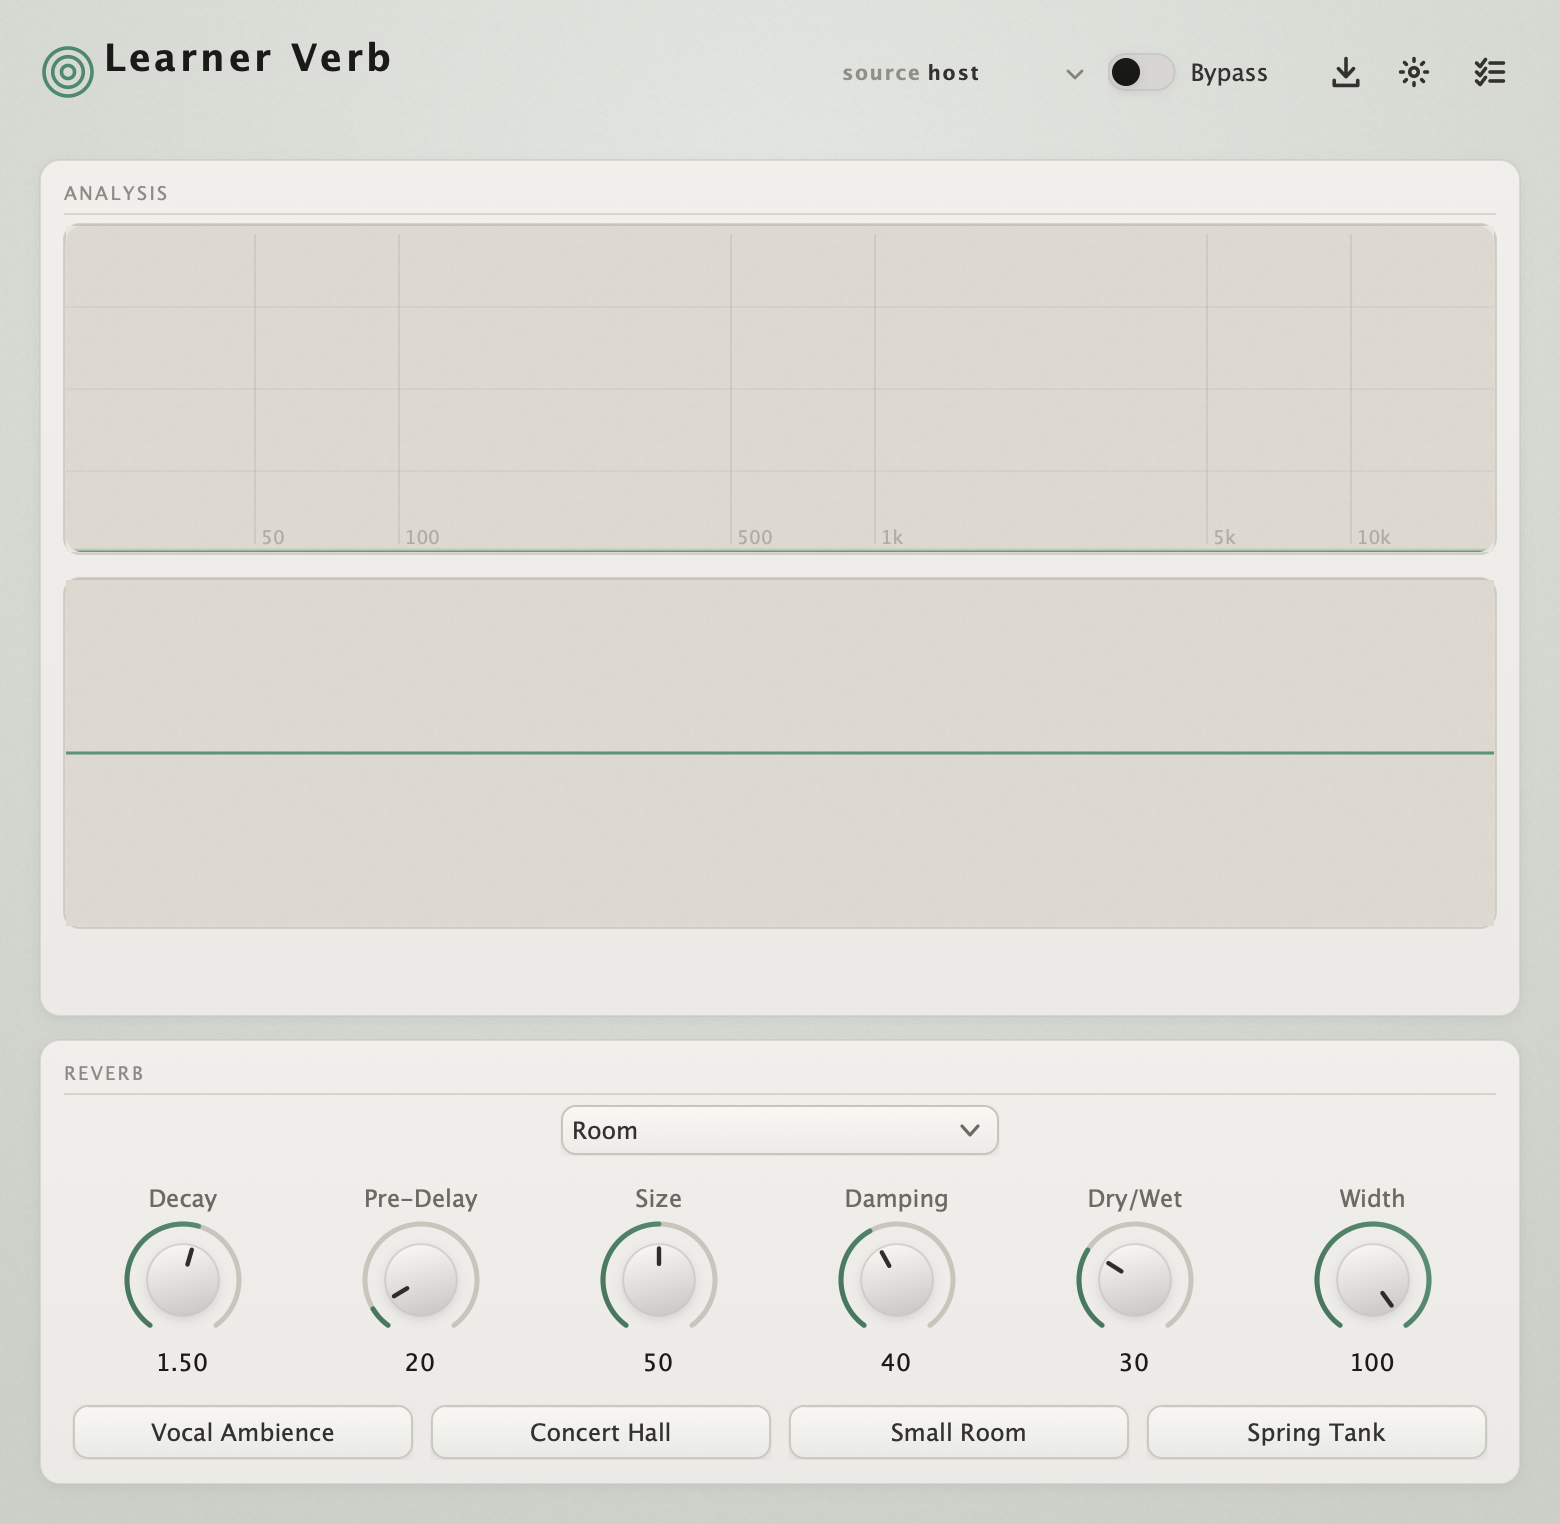
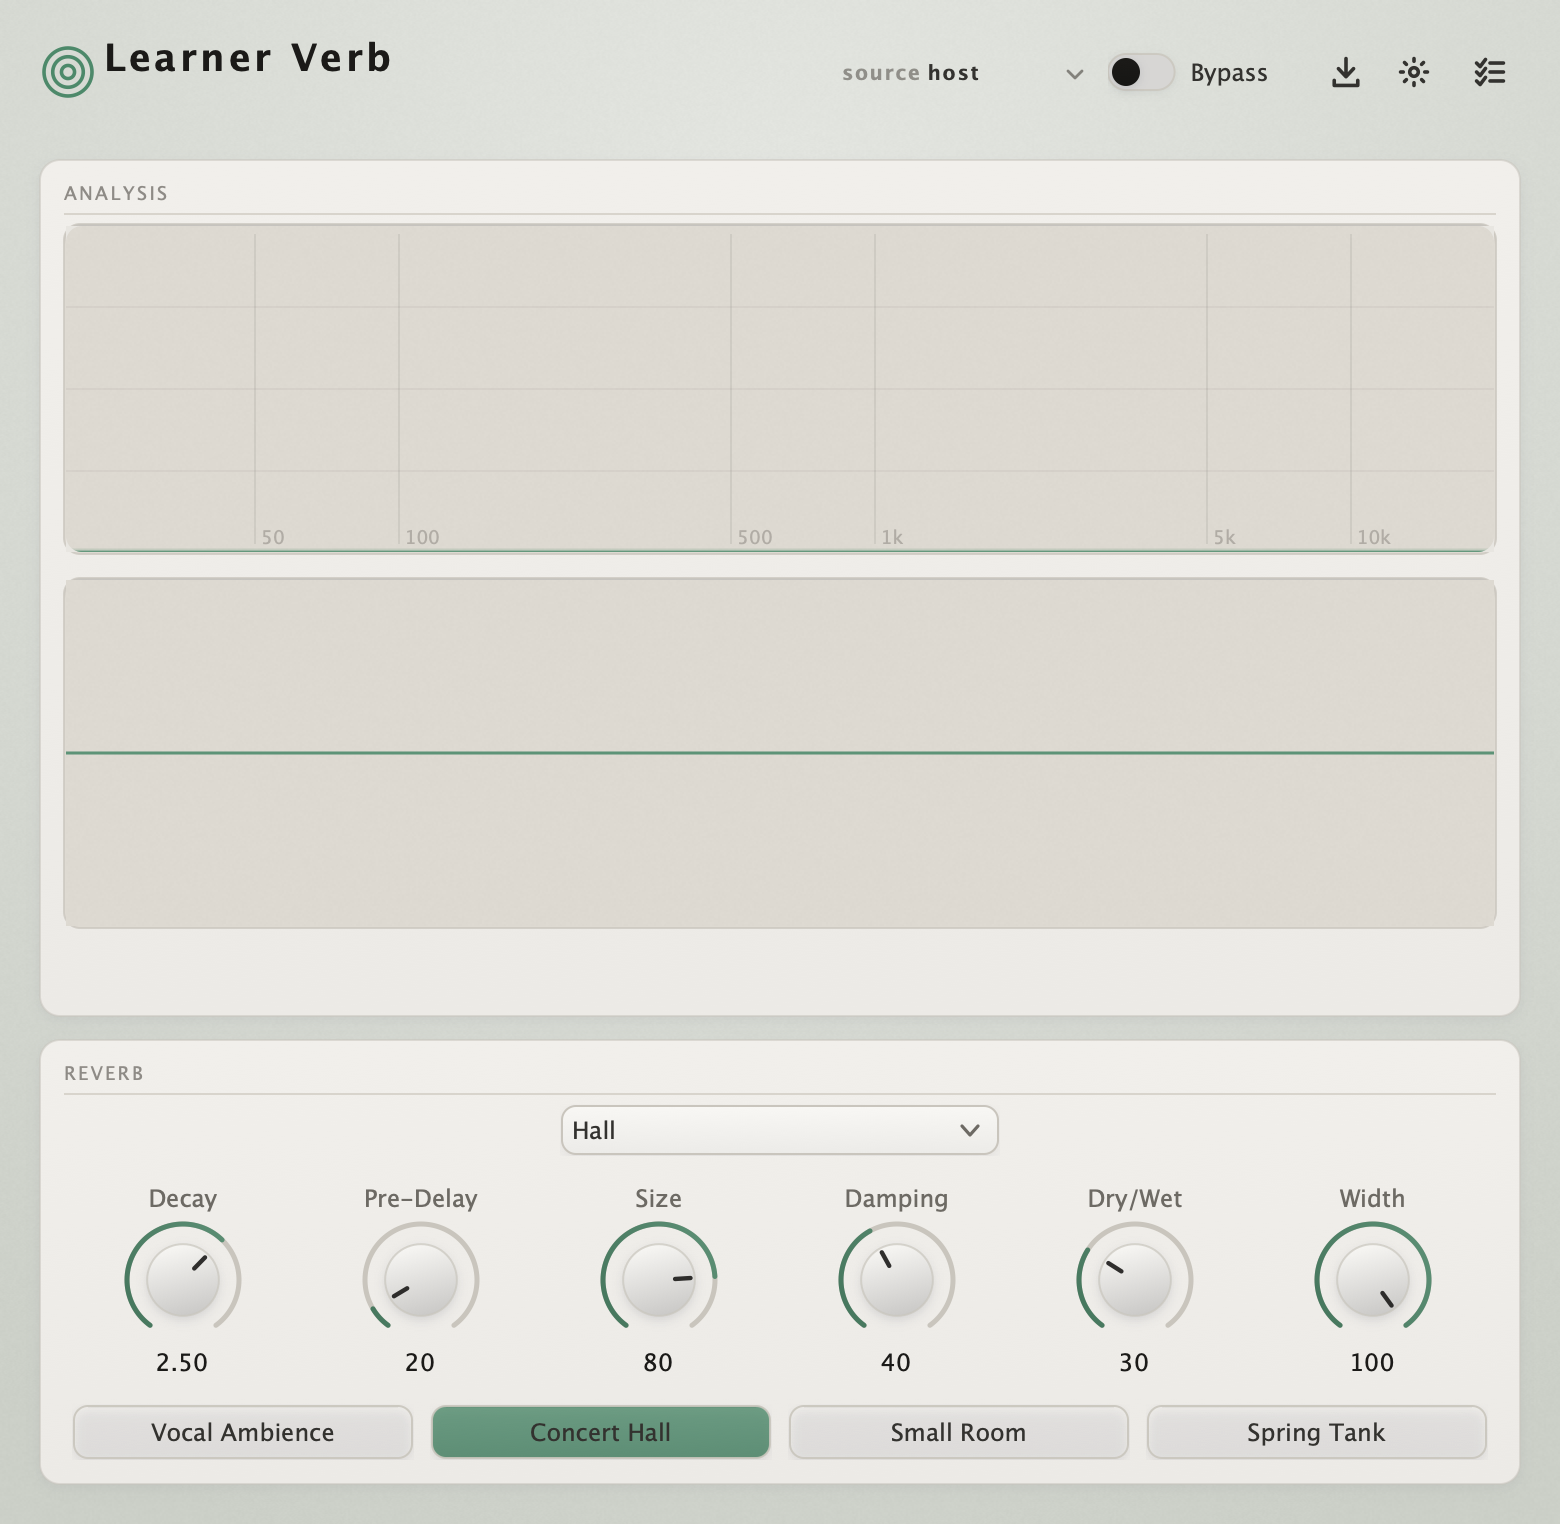
A header with two buttons in it, and presets that say which one you are on
README. The header was six status badges and a line of plain text links,
which gave a first-time visitor no idea what to press. It is three tiers
now: status badges small and flat, then two real buttons - Download in
the app's own accent blue, Support in its accent warm - then the
navigation. The donate link was buried in the status row beside the test
count; it is a button now, and it appears again at the bottom where the
support section actually explains it. Colours are lifted from
AbcTrainTheme rather than picked fresh, so the page and the plugin agree.

Two links pointed at #-download while the heading was "## Download",
which has no emoji and therefore no leading dash in its anchor. Both went
nowhere. The heading has an emoji now and the anchors match.

Presets are chips. A row of four identical buttons says "here are four
things you may press"; one filled among three outlines says "you are
here, and here is what else there is" - which is the question a preset
row actually answers. Cleared as soon as a knob moves, because after that
it is no longer true. The first attempt styled an empty array: the
constructor sets the accent long before the buttons exist.

The gain-reduction meter says "GR down". It is the one meter where more
is lower, and an unlabelled falling arc is read backwards by exactly the
person this plugin is for.

Space flips A/B. It is the control a player touches most - once or twice
[…]

diff --git a/LearnerVerb/Source/PluginEditor.cpp b/LearnerVerb/Source/PluginEditor.cpp
@@ -40,6 +40,7 @@ LearnerVerbEditor::LearnerVerbEditor (LearnerVerbProcessor& p)
                                 ? AbcTrainTheme::Mode::light
                                 : AbcTrainTheme::Mode::dark);
     accent = AbcTrainTheme::accentFor (AbcTrainTheme::Family::space);
+    refreshPresetChips();
     lookAndFeel.refreshFromTheme (accent);
 
     setLookAndFeel (&lookAndFeel);
@@ -124,6 +125,8 @@ LearnerVerbEditor::LearnerVerbEditor (LearnerVerbProcessor& p)
         button->onClick = [this, i]
         {
             processor.applyPreset (i);
+            activePreset = i;
+            refreshPresetChips();
 
             // The knobs moving is the "what changed"; this is the "why".
             guideTooltip.setText (juce::String (ReverbGuide::presets[(size_t) i].name) + " - "
@@ -131,6 +134,8 @@ LearnerVerbEditor::LearnerVerbEditor (LearnerVerbProcessor& p)
         };
         addAndMakeVisible (button);
     }
+
+    refreshPresetChips();
 
     bypassAttachment = std::make_unique<juce::AudioProcessorValueTreeState::ButtonAttachment> (
         processor.apvts, LearnerVerbProcessor::bypassParamId, bypassButton);
@@ -296,6 +301,7 @@ void LearnerVerbEditor::toggleTheme()
     // accentFor() returns a different value per mode, so it has to be
     // asked again rather than reused from construction.
     accent = AbcTrainTheme::accentFor (AbcTrainTheme::Family::space);
+    refreshPresetChips();
     lookAndFeel.refreshFromTheme (accent);
     applyTheme();
 
@@ -353,6 +359,22 @@ void LearnerVerbEditor::paintOverChildren (juce::Graphics& g)
                                            AbcTrainLookAndFeel::captionFont(),
                                            theme.textDim.withAlpha (eased), 3.0f,
                                            juce::Justification::centred);
+}
+
+void LearnerVerbEditor::refreshPresetChips()
+{
+    const auto& theme = AbcTrainTheme::current();
+
+    for (int i = 0; i < presetButtons.size(); ++i)
+    {
+        // A near-transparent fill still gets the LookAndFeel's 1px border,
+        // so an unselected chip reads as an outline rather than as a
+        // disabled button.
+        presetButtons[i]->setColour (juce::TextButton::buttonColourId,
+                                      i == activePreset ? accent.withAlpha (0.85f)
+                                                        : theme.widgetBackground.withAlpha (0.25f));
+        presetButtons[i]->repaint();
+    }
 }
 
 void LearnerVerbEditor::resized()

diff --git a/LearnerComp/Source/PluginEditor.cpp b/LearnerComp/Source/PluginEditor.cpp
@@ -42,6 +42,7 @@ LearnerCompEditor::LearnerCompEditor (LearnerCompProcessor& p)
                                 ? AbcTrainTheme::Mode::light
                                 : AbcTrainTheme::Mode::dark);
     accent = AbcTrainTheme::accentFor (AbcTrainTheme::Family::dynamics);
+    refreshPresetChips();
     lookAndFeel.refreshFromTheme (accent);
 
     setLookAndFeel (&lookAndFeel);
@@ -120,6 +121,8 @@ LearnerCompEditor::LearnerCompEditor (LearnerCompProcessor& p)
         button->onClick = [this, i]
         {
             processor.applyPreset (i);
+            activePreset = i;
+            refreshPresetChips();
 
             // The knobs moving is the "what changed"; this is the "why".
             guideTooltip.setText (juce::String (CompressorGuide::presets[(size_t) i].name) + " - "
@@ -127,6 +130,8 @@ LearnerCompEditor::LearnerCompEditor (LearnerCompProcessor& p)
         };
         addAndMakeVisible (button);
     }
+
+    refreshPresetChips();
 
     processor.setWaveformDisplay (&waveform);
     processor.setSpectrumAnalyzer (&spectrum);
@@ -291,6 +296,7 @@ void LearnerCompEditor::toggleTheme()
     // accentFor() returns a different value per mode, so it has to be
     // asked again rather than reused from construction.
     accent = AbcTrainTheme::accentFor (AbcTrainTheme::Family::dynamics);
+    refreshPresetChips();
     lookAndFeel.refreshFromTheme (accent);
     applyTheme();
 
@@ -350,6 +356,22 @@ void LearnerCompEditor::paintOverChildren (juce::Graphics& g)
                                            AbcTrainLookAndFeel::captionFont(),
                                            theme.textDim.withAlpha (eased), 3.0f,
                                            juce::Justification::centred);
+}
+
+void LearnerCompEditor::refreshPresetChips()
+{
+    const auto& theme = AbcTrainTheme::current();
+
+    for (int i = 0; i < presetButtons.size(); ++i)
+    {
+        // A near-transparent fill still gets the LookAndFeel's 1px border,
+        // so an unselected chip reads as an outline rather than as a
+        // disabled button.
+        presetButtons[i]->setColour (juce::TextButton::buttonColourId,
+                                      i == activePreset ? accent.withAlpha (0.85f)
+                                                        : theme.widgetBackground.withAlpha (0.25f));
+        presetButtons[i]->repaint();
+    }
 }
 
 void LearnerCompEditor::resized()

diff --git a/LearnerComp/Source/PluginEditor.h b/LearnerComp/Source/PluginEditor.h
@@ -81,6 +81,27 @@ private:
 
     juce::OwnedArray<juce::TextButton> presetButtons;
 
+    // Which preset the knobs currently *are*, or -1. A row of identical
+    // buttons says "here are four things you may press"; one filled chip
+    // among three outlines says "you are here, and here is what else there
+    // is" - which is the question a preset row actually answers. Cleared
+    // the moment a knob moves, because after that the answer is no longer
+    // true.
+    int activePreset = -1;
+    void refreshPresetChips();
+
+public:
+    // Snapshot seam: a screenshot of every knob at its default is a
+    // screenshot of a plugin nobody has used yet.
+    void applyPresetForSnapshot (int index)
+    {
+        processor.applyPreset (index);
+        activePreset = index;
+        refreshPresetChips();
+    }
+
+private:
+
     // Two lessons (see decisions/017) means a small picker instead of one
     // "Lesson" button - each LessonController owns its own MicroLesson, and
     // only one is ever visible/started at a time (see lessonSelector.onChange).

diff --git a/LearnerVerb/Source/PluginEditor.h b/LearnerVerb/Source/PluginEditor.h
@@ -75,6 +75,27 @@ private:
 
     juce::OwnedArray<juce::TextButton> presetButtons;
 
+    // Which preset the knobs currently *are*, or -1. A row of identical
+    // buttons says "here are four things you may press"; one filled chip
+    // among three outlines says "you are here, and here is what else there
+    // is" - which is the question a preset row actually answers. Cleared
+    // the moment a knob moves, because after that the answer is no longer
+    // true.
+    int activePreset = -1;
+    void refreshPresetChips();
+
+public:
+    // Snapshot seam: a screenshot of every knob at its default is a
+    // screenshot of a plugin nobody has used yet.
+    void applyPresetForSnapshot (int index)
+    {
+        processor.applyPreset (index);
+        activePreset = index;
+        refreshPresetChips();
+    }
+
+private:
+
     // Two lessons (see decisions/017) means a small picker instead of one
     // "Lesson" button - each LessonController owns its own MicroLesson, and
     // only one is ever visible/started at a time (see lessonSelector.onChange).

diff --git a/Source/PluginEditor.cpp b/Source/PluginEditor.cpp
@@ -263,6 +263,9 @@ EarTrainerEditor::EarTrainerEditor (EarTrainerProcessor& p)
     addAndMakeVisible (beforeButton);
     addAndMakeVisible (afterButton);
 
+    // ...which is only reachable if the editor can hold focus.
+    setWantsKeyboardFocus (true);
+
     hintButton.onClick = [this] { requestHint(); };
     addAndMakeVisible (hintButton);
 
@@ -674,6 +677,18 @@ void EarTrainerEditor::paint (juce::Graphics& g)
                                      (float) getWidth() * 0.6f, 32.0f),
             AbcTrainLookAndFeel::titleFont(), theme.textBright, 1.8f,
             juce::Justification::centredLeft);
+}
+
+bool EarTrainerEditor::keyPressed (const juce::KeyPress& key)
+{
+    if (key == juce::KeyPress::spaceKey && beforeButton.isVisible())
+    {
+        auto& game = processor.getGameManager().getActiveGame();
+        setPlayProcessed (! game.isPlayingProcessed());
+        return true;
+    }
+
+    return false;
 }
 
 void EarTrainerEditor::resized()

diff --git a/tools/EditorSnapshots.cpp b/tools/EditorSnapshots.cpp
@@ -134,6 +134,12 @@ namespace
             if constexpr (std::is_same_v<EditorType, LearnerCompEditor>
                           || std::is_same_v<EditorType, LearnerVerbEditor>)
             {
+                // A plain shot of these two shows a preset engaged rather
+                // than every knob at its default - a picture of a plugin
+                // nobody has touched is a picture of nothing.
+                if (extra == Extra::none)
+                    editor.applyPresetForSnapshot (1);
+
                 if (extra == Extra::moduleShelf)
                     editor.openModuleShelfForSnapshot();
 

diff --git a/shared/GainReductionMeter.cpp b/shared/GainReductionMeter.cpp
@@ -106,5 +106,8 @@ void GainReductionMeter::paint (juce::Graphics& g)
 
     g.setColour (theme.textDim.withAlpha (0.7f));
     g.setFont (AbcTrainLookAndFeel::captionFont());
-    g.drawText ("GR", arcArea.withHeight (14.0f), juce::Justification::centredTop, false);
+    // The arrow is not decoration: this is the one meter where more is
+    // lower, and a newcomer reads an unlabelled falling arc backwards.
+    g.drawText (juce::String::fromUTF8 ("GR \xe2\x86\x93"), arcArea.withHeight (14.0f),
+                 juce::Justification::centredTop, false);
 }

diff --git a/Source/PluginEditor.h b/Source/PluginEditor.h
@@ -86,6 +86,11 @@ public:
     void paint (juce::Graphics&) override;
     void resized() override;
 
+    // Space flips A/B. It is the control a player touches most - once or
+    // twice every round, every round - and reaching for the mouse to do it
+    // breaks the one thing the screen is for, which is listening.
+    bool keyPressed (const juce::KeyPress&) override;
+
 private:
     // Plain filled-rectangle progress bar, its fill now eased via JUCE's
     // own juce_animation module (Animator/ValueAnimatorBuilder) instead

diff --git a/README.md b/README.md
@@ -7,18 +7,26 @@
 Nine ear-training exercises and three real, host-automatable effects —
 one free, open-source suite for macOS, Windows and Linux.
 
-[![Build and Test](https://github.com/bogggare567/abcTrain/actions/workflows/build_and_test.yml/badge.svg)](https://github.com/bogggare567/abcTrain/actions/workflows/build_and_test.yml)
-[![Latest release](https://img.shields.io/github/v/release/bogggare567/abcTrain?label=download)](https://github.com/bogggare567/abcTrain/releases/latest)
-[![Platforms](https://img.shields.io/badge/macOS%20%7C%20Windows%20%7C%20Linux-VST3%20%C2%B7%20AU%20%C2%B7%20Standalone-blue)](#-download)
-[![Languages](https://img.shields.io/badge/languages-12-orange)](#-supported-languages)
-[![Tests](https://img.shields.io/badge/tests-220%20groups-brightgreen)](docs/testing-strategy.md)
-[![Donate](https://img.shields.io/badge/Donate-DonationAlerts-blue)](https://www.donationalerts.com/r/bogdankorablev)
+[![Build and Test](https://img.shields.io/github/actions/workflow/status/bogggare567/abcTrain/build_and_test.yml?style=flat-square&labelColor=1E1E2E&color=5FB98C&label=build)](https://github.com/bogggare567/abcTrain/actions/workflows/build_and_test.yml)
+[![Latest release](https://img.shields.io/github/v/release/bogggare567/abcTrain?style=flat-square&labelColor=1E1E2E&color=5B9BD5&label=release)](https://github.com/bogggare567/abcTrain/releases/latest)
+[![Formats](https://img.shields.io/badge/VST3%20%C2%B7%20AU%20%C2%B7%20Standalone-4A4A5A?style=flat-square&labelColor=1E1E2E)](#-download)
+[![Languages](https://img.shields.io/badge/languages-12-4A4A5A?style=flat-square&labelColor=1E1E2E)](#-supported-languages)
+[![Tests](https://img.shields.io/badge/tests-220%20groups-4A4A5A?style=flat-square&labelColor=1E1E2E)](docs/testing-strategy.md)
+[![Licence](https://img.shields.io/badge/licence-all%20rights%20reserved-4A4A5A?style=flat-square&labelColor=1E1E2E)](LICENSE)
 
-**[⬇ Download](https://github.com/bogggare567/abcTrain/releases/latest)** ·
-[Screenshots](#-what-it-looks-like) ·
-[How it works](#-how-it-works) ·
-[Contribute](docs/orientation.md) ·
-[Roadmap](docs/roadmap.md)
+<br>
+
+[![Download for macOS, Windows and Linux](https://img.shields.io/badge/%E2%AC%87%20DOWNLOAD-macOS%20%C2%B7%20Windows%20%C2%B7%20Linux-5B9BD5?style=for-the-badge&labelColor=1E1E2E)](https://github.com/bogggare567/abcTrain/releases/latest)
+&nbsp;
+[![Support the project on DonationAlerts](https://img.shields.io/badge/%E2%99%A5%20SUPPORT-DonationAlerts-D98C5F?style=for-the-badge&labelColor=1E1E2E)](https://www.donationalerts.com/r/bogdankorablev)
+
+<br>
+
+[![Screenshots](https://img.shields.io/badge/Screenshots-2A2A3A?style=flat-square)](#-what-it-looks-like)
+[![How it works](https://img.shields.io/badge/How%20it%20works-2A2A3A?style=flat-square)](#-how-it-works)
+[![The nine exercises](https://img.shields.io/badge/9%20exercises-2A2A3A?style=flat-square)](#-9-games)
+[![Roadmap](https://img.shields.io/badge/Roadmap-2A2A3A?style=flat-square)](docs/roadmap.md)
+[![Contribute](https://img.shields.io/badge/Contribute-2A2A3A?style=flat-square)](docs/orientation.md)
 
 <br>
 
@@ -224,7 +232,7 @@ reads as mass. The spectrum is a smoothed gradient-filled curve over a
 soft grid; the gain-reduction meter fills *downward*, because reduction
 is the one meter where more is lower.
 
-## Download
+## ⬇ Download
 
 Pre-release, **unsigned** builds only — see [LICENSE](LICENSE) before
 distributing anything built from this repo.
@@ -481,8 +489,16 @@ Free, open source, and staying that way — no paid tier, no subscription,
 nothing locked behind anything.
 
 If it's useful to you, a **[star](https://github.com/bogggare567/abcTrain)**
-helps other people find it, and a donation via
-[soundkorb.ru](https://soundkorb.ru) keeps it moving. Both are optional
-and neither unlocks anything: gating software behind a star is against
-[GitHub's rules on incentivised engagement](https://docs.github.com/en/site-policy/acceptable-use-policies/github-acceptable-use-policies),
+helps other people find it, and a donation keeps it moving. Both are
+optional and neither unlocks anything: gating software behind a star is
+against [GitHub's rules on incentivised engagement](https://docs.github.com/en/site-policy/acceptable-use-policies/github-acceptable-use-policies),
 and would be trivially bypassable anyway.
+
+<div align="center">
+
+[![Support the project on DonationAlerts](https://img.shields.io/badge/%E2%99%A5%20SUPPORT%20THIS%20PROJECT-DonationAlerts-D98C5F?style=for-the-badge&labelColor=1E1E2E)](https://www.donationalerts.com/r/bogdankorablev)
+
+</div>
+
+There is also [soundkorb.ru](https://soundkorb.ru), which is where the
+rest of this work lives.
